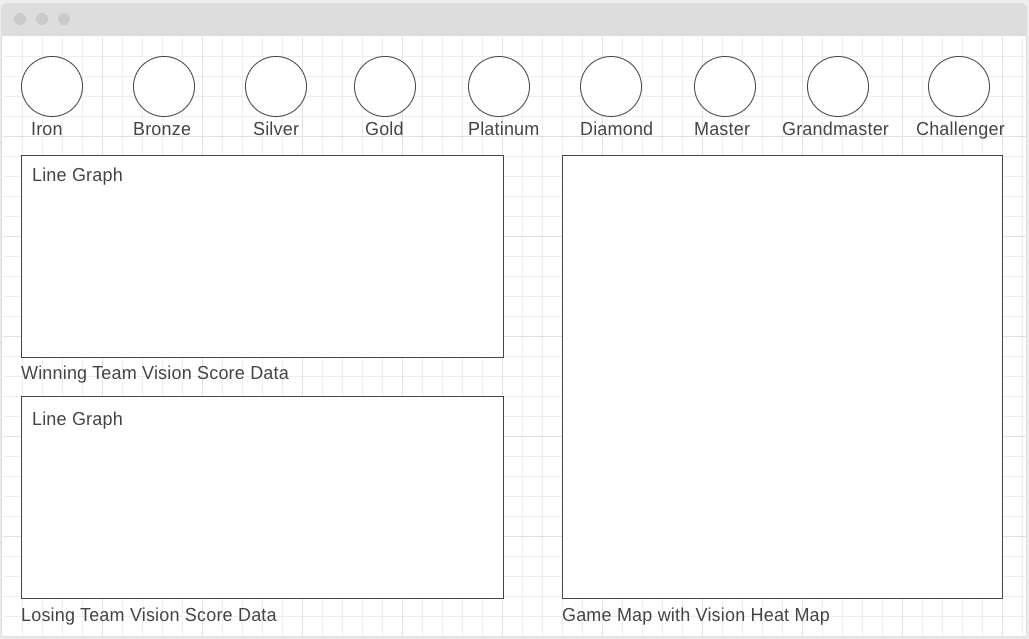
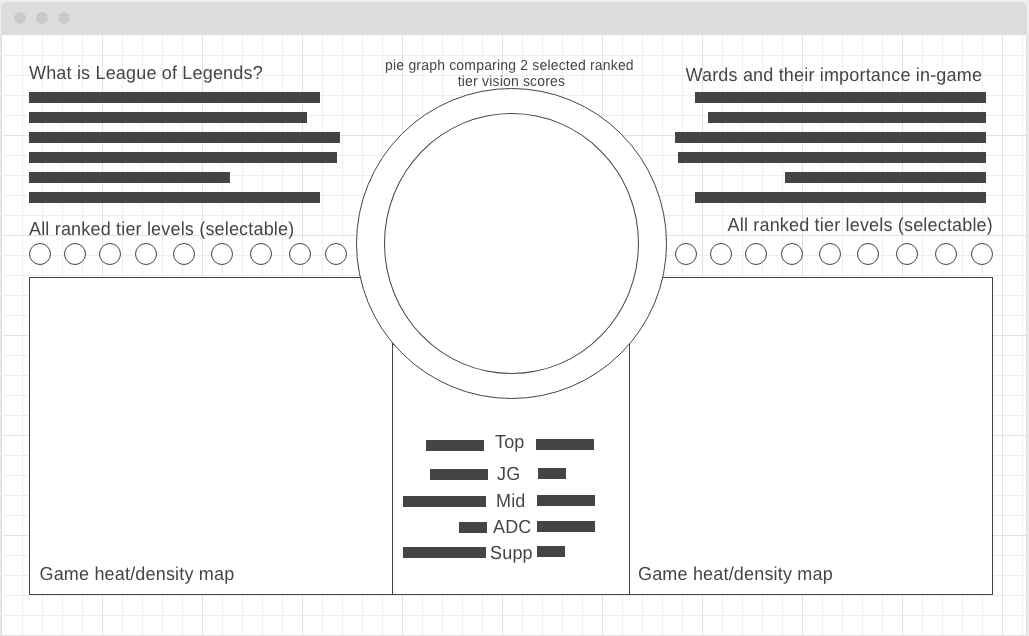
Edit readme and wireframe model of project

diff --git a/README.md b/README.md
@@ -8,13 +8,13 @@
 
 ## Functionality and MVP Features
   * Users will be able to:
-    * See a heat map of ward placement on the game map by both the winning and losing team
-    * Switch between 9 rank tiers to see how map data changes over different levels of competitive play
-    * See a graph of individual role contributions to vision control (wards placed, wards destroyed)
-    * Graph of winning vs. losing team vision scores
+    * Switch between comarisons of all 9 rank tiers to see how the map data changes over different levels of competitive play
+    * See a comparison of two heat/density maps of average ward placements on the game map by two different tier classes
+    * See a graph comparing average vision scores for two selected tier classes
+    * See a bar graph of individual role contributions to vision control (wards placed, wards destroyed)
 
 ## Wireframes
-  * The app will consist of a large top-down map of the game on the right side, two separate line graphs (one for data on each team) on the left side, and an upper navbar of different league tiers to change the data being visualized in both the line graphs and game map. 
+  * The app will consist of two top-down maps of the game at the bottom with two separate line graphs (one for data on each tier). There will be an upper navbar of different league tiers to change the data being visualized in both the line graphs and game map. 
 
   ![lol ward placement data visualization wireframe](assets/images/lol_ward_placement_data_visualization_wireframe.png)
 
@@ -22,7 +22,7 @@
   * This project will implement the following technologies:
     * Vanilla JavaScript for data management
     * Riot Games Developer API used for fetching relevant game data 
-    * Heatmap.js JavaScript library to visualize the game data
+    * D3 JavaScript library to visualize the game data
     * Webpack to bundle up and present the various javascript files
 
 ## Implementation Timeline
@@ -32,7 +32,7 @@
     * Go over how to map data via D3 tutorials
   * Day 2:
     * Shape JSON information to retrieve only data relevant to ward placement
-    * Learn how to utilize heatmap.js library to map ward location data onto game map
+    * Learn how to utilize D3 library to map ward location data onto game map via a heat map or density map
   * Day 3:
     * Retrieve JSON information to create line graphs of relevant team data (ie. overall team vision scores)
     * Extend line graph to include individual role vision contribution data
